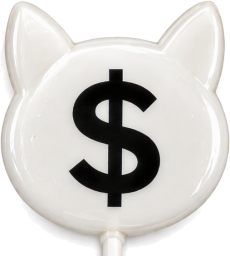
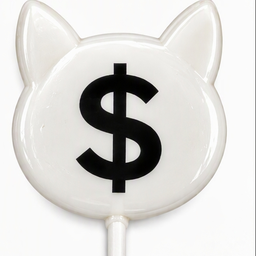
Bonbons : vignettes carrées sur leur fond d'origine, coins arrondis
Claude-Session: https://claude.ai/code/session_01F74Y5B7wJnbtFZbAkGtMxD

Changed region(s): [[0.0, 0.0, 1.0, 1.0], [0.213, 0.2188, 0.2739, 0.2812]]

diff --git a/components/shared/bonbon-icon.tsx b/components/shared/bonbon-icon.tsx
@@ -1,9 +1,9 @@
-/** Bonbon Omero : blanc (10 OMERO) ou orange (100 OMERO). Fond transparent, lisible en petit. */
+/** Bonbon Omero : blanc (10 OMERO) ou orange (100 OMERO). Vignette carrée sur fond blanc d'origine, coins arrondis. */
 import { splitBonbons } from "@/lib/bonbons";
 
 export function BonbonIcon({ kind, className = "h-5" }: { kind: "white" | "orange"; className?: string }) {
   // eslint-disable-next-line @next/next/no-img-element
-  return <img src={kind === "orange" ? "/bonbon-orange.png" : "/bonbon-white.png"} alt="" aria-hidden className={`${className} w-auto shrink-0 object-contain`} />;
+  return <img src={kind === "orange" ? "/bonbon-orange.png" : "/bonbon-white.png"} alt="" aria-hidden className={`${className} aspect-square w-auto shrink-0 rounded-[22%] bg-white object-cover ring-1 ring-black/5`} />;
 }
 
 /** Les bonbons d'un montant : icône + quantité pour chaque couleur donnée. */
